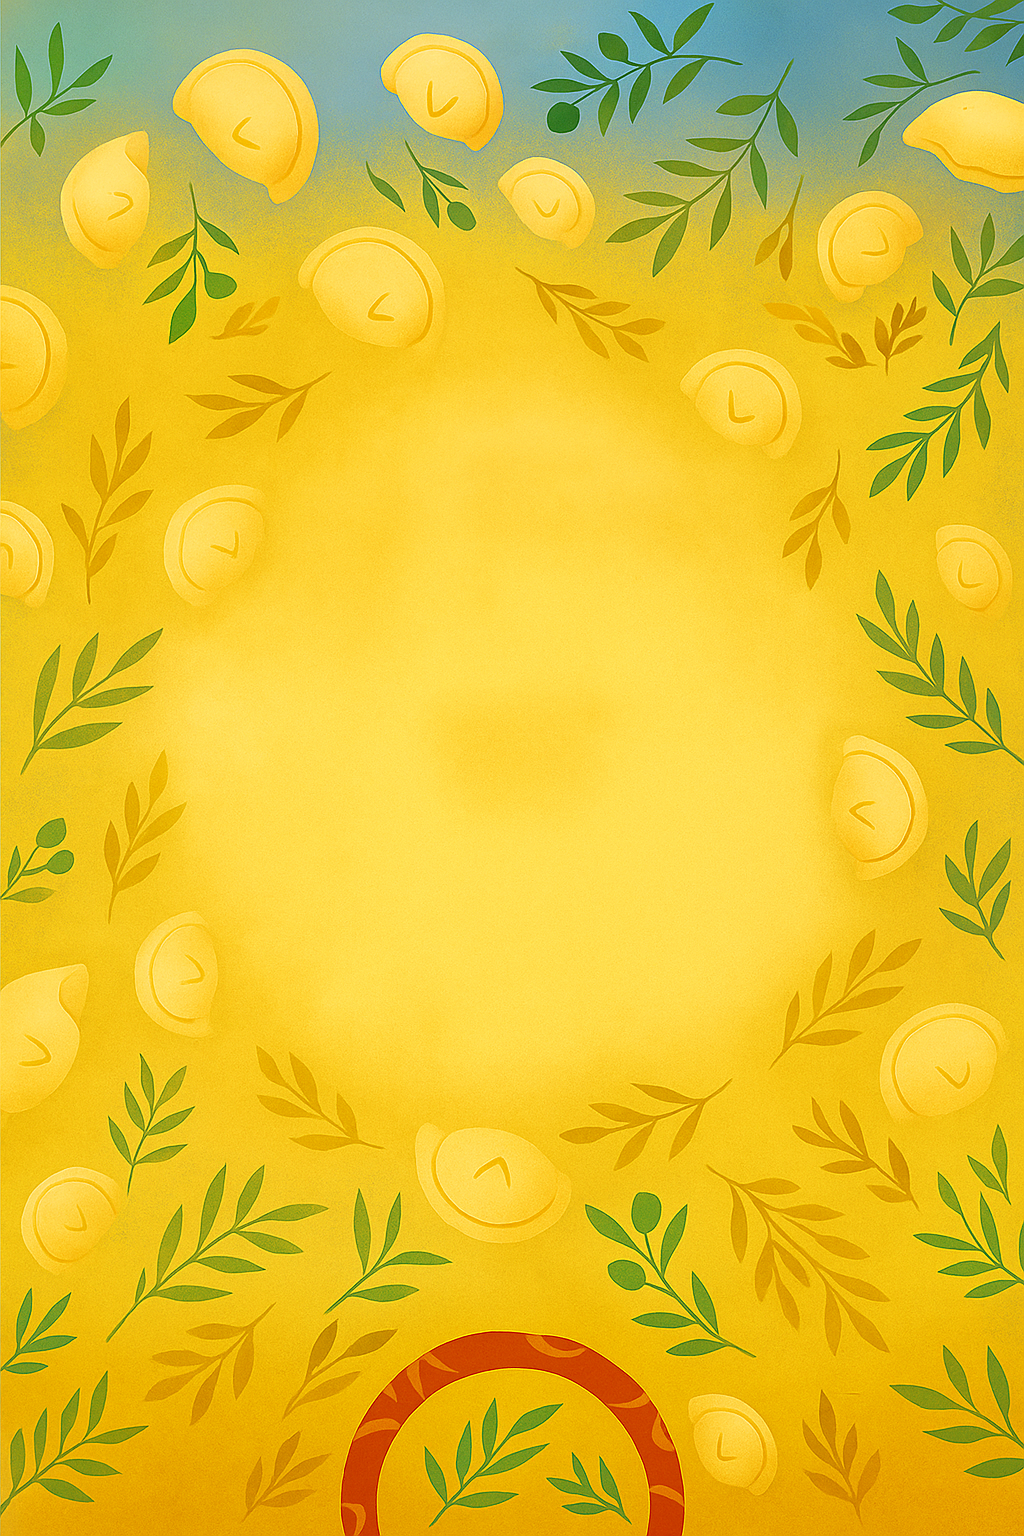
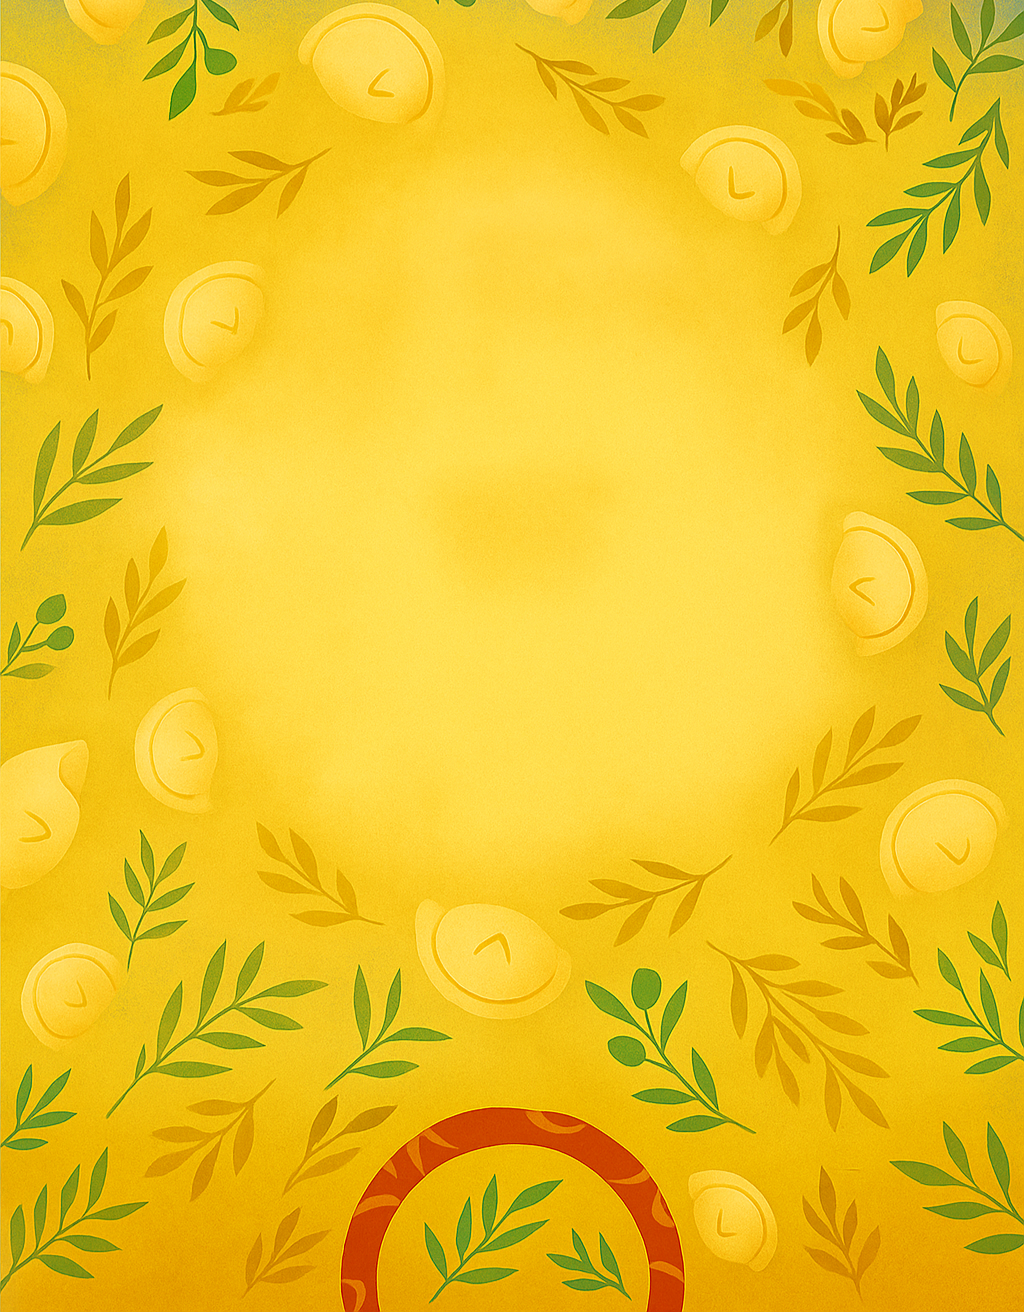
добавил размытие стола

diff --git a/index.html b/index.html
@@ -151,9 +151,17 @@
         <filter id="softGlow" filterUnits="userSpaceOnUse" x="-2000" y="-2000" width="12000" height="12000">
           <feGaussianBlur stdDeviation="24" />
         </filter>
+        <radialGradient id="edgeFade" cx="50%" cy="50%" r="50%">
+          <stop offset="0%" stop-color="#fff" />
+          <stop offset="94%" stop-color="#fff" />
+          <stop offset="100%" stop-color="#000" />
+        </radialGradient>
+        <mask id="edgeMask" maskUnits="objectBoundingBox" maskContentUnits="objectBoundingBox">
+          <rect x="0" y="0" width="1" height="1" fill="url(#edgeFade)" />
+        </mask>
       </defs>
       <!-- Фоновое изображение: оптимизированный table.webp -->
-      <image href="table.webp" x="0" y="0" width="793.2475" height="793.2475" preserveAspectRatio="xMidYMid meet" style="pointer-events:none" />
+      <image href="table.webp" x="0" y="0" width="793.2475" height="793.2475" preserveAspectRatio="xMidYMid meet" style="pointer-events:none" mask="url(#edgeMask)" />
 
       <!-- Слой с кликабельными точками -->
       <g id="hotspots" />
